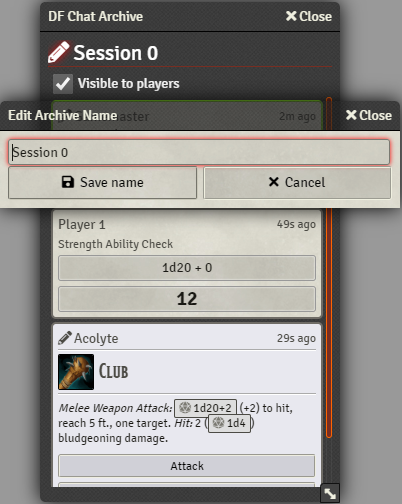
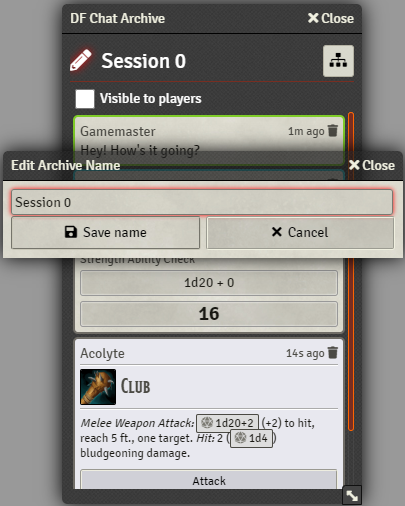
chat-enhance: Chat Archive merging
resolve #59

diff --git a/df-chat-enhance/src/archive/DFChatArchiveViewer.ts b/df-chat-enhance/src/archive/DFChatArchiveViewer.ts
@@ -68,6 +68,46 @@ export default class DFChatArchiveViewer extends Application {
 						dialog.render(true);
 					}, 1);
 				});
+				html.find('#merge').on('click', async () => {
+					if(DFChatArchive.getLogs().length == 1) {
+						ui.notifications.info(game.i18n.localize('DF_CHAT_ARCHIVE.ArchiveViewer_Merge_OnlyOneArchive'));
+						return;
+					}
+					const dialog: Dialog = new Dialog({
+						title: game.i18n.localize('DF_CHAT_ARCHIVE.ArchiveViewer_Merge_Title'),
+						default: 'merge',
+						content: await renderTemplate('modules/df-chat-enhance/templates/archive-merge.hbs', {
+							name: this.archive.name,
+							archives: DFChatArchive.getLogs().filter(x => x.id != this.archive.id)
+						}),
+						buttons: {
+							cancel: {
+								icon: '<i class="fas fa-times"></i>',
+								label: game.i18n.localize('DF_CHAT_ARCHIVE.ArchiveViewer_Merge_Cancel'),
+								callback: async () => await dialog.close()
+							},
+							merge: {
+								icon: '<i class="fas fa-sitemap"></i>',
+								label: game.i18n.localize('DF_CHAT_ARCHIVE.ArchiveViewer_Merge_Merge'),
+								callback: async (html) => {
+									const val = $(html).find('#archive').val() as string;
+									if (isNaN(parseInt(val))) return;
+									const id = parseInt(val);
+									const source = DFChatArchive.getLogs().find(x => x.id == id);
+									this.archive.chats = (this.archive.chats as ChatMessage.Data[])
+										.concat(source.chats as ChatMessage.Data[])
+										.sort((a, b) => a.timestamp - b.timestamp);
+									DFChatArchive.updateChatArchive(this.archive);
+									this.render(false);
+									if (($(html).find('#delete')[0] as HTMLInputElement).checked) {
+										DFChatArchive.deleteChatArchive(id);
+									}
+								}
+							}
+						}
+					});
+					await dialog.render(true);
+				});
 
 				const log = html.find('#df-chat-log');
 				const messageHtml = [];
@@ -93,7 +133,7 @@ export default class DFChatArchiveViewer extends Application {
 									await DFChatArchive.updateChatArchive(this.archive);
 									$(messageHtml).hide(1000, () => messageHtml.remove());
 								}
-							})
+							});
 						});
 						messageHtml.push(html);
 					} catch (err) {

diff --git a/df-chat-enhance/src/archive/DFChatArchive.ts b/df-chat-enhance/src/archive/DFChatArchive.ts
@@ -38,9 +38,9 @@ export class DFChatArchive {
 		this._logs = JSON.parse(game.settings.get(CONFIG.MOD_NAME, DFChatArchive.PREF_LOGS));
 	}
 
-	static getLogs() { return this._logs; }
-	static getArchive(id: number) { return this._logs.find(x => x.id == id); }
-	static exists(id: number) { return !!this._logs.find(x => x.id == id); }
+	static getLogs(): DFChatArchiveEntry[] { return this._logs; }
+	static getArchive(id: number): DFChatArchiveEntry { return this._logs.find(x => x.id == id); }
+	static exists(id: number): boolean { return !!this._logs.find(x => x.id == id); }
 
 	static async createChatArchive(name: string, chats: ChatMessage[], visible: boolean): Promise<DFChatArchiveEntry> {
 		var newId = (game.settings.get(CONFIG.MOD_NAME, DFChatArchive.PREF_CID) as number) + 1;

diff --git a/df-chat-enhance/README.md b/df-chat-enhance/README.md
@@ -6,6 +6,7 @@ Multiple improvements to the chat system feature set. Brings a new Chat Archive 
 	- [Config](#Config)
 	- [Log Command Help](#Log-Command-Help)
 	- [Log Commands](#Log-Commands)
+	  - [GM Only Log](#GM-Only-Log)
 	  - [Right-Click Add to Log](#Right-Click-Add-to-Log)
 	  - [Quote Sources](#Quote-Sources)
 - [Roll Selector Buttons](#roll-selector-buttons)
@@ -13,6 +14,9 @@ Multiple improvements to the chat system feature set. Brings a new Chat Archive 
 	- [Create Archive](#Create-Archive)
 		- [Create Chat Archive Window](#Create-Chat-Archive-Window)
 	- [Manage Chat Archives](#Manage-Chat-Archives)
+		- [Edit Archive Name](#Edit-Archive-Name)
+		- [Delete Messages](#Delete-Messages)
+		- [Archive Merging](#Archive-Merging)
 - [Edit Sent Messages](#Edit-Sent-Messages)
 	- [Edit Last Message Keyboard Shortcut](#Edit-Last-Message-Keyboard-Shortcut)
 
@@ -41,7 +45,7 @@ At any time you can simply enter `/log` into the chat to display the help dialog
 | General Event | `/log ...message`<br />`/log e ...message`<br />`/log event ...message` | Logs a simple event message to the adventure log. |
 | Quote | `/log q <source> ...message`<br />`/log quote <source> ...message`<br />`/log q "<source with spaces" ...message`<br />`/log quote "<source with spaces" ...message` | Adds an entry Quote of the "Source". |
 
-### GM Only Log
+#### GM Only Log
 
 For any of the above commands, you can use `/gmlog` instead and the event/quote will be sent to the GM Only Adventure Log instead.
 
@@ -67,8 +71,7 @@ Will output into the log
 
 > [2021-02-12 4:35PM] (Susan) Bobby McFerrin said: "Don't worry, be happy!"
 
-
-## Roll Selector Buttons
+## Roll Selector Buttons ![Roll Types](../.assets/df-chat-enhance-privacy-roll-types.png)
 
 | Players | Game Masters |
 | :-: | :-: |
@@ -101,9 +104,21 @@ The windows is fairly self explanatory, you can select all the current chat mess
 
 You can view and delete archives from the archive manager. You'll find the ![manage chat archive](../.assets/df-chat-enhance-archive-manage-button.png) button in the sidebar settings tab. You can also see which ones are visible to your players
 
-|Manage Archives|View Archive|Edit Archive Name|
-|:-:|:-:|:-:|
-|![Manage archives](../.assets/df-chat-enhance-archive-manage.png)|![View archive](../.assets/df-chat-enhance-archive-viewer.png)|![View archive](../.assets/df-chat-enhance-archive-edit.png)|
+#### Edit Archive Name
+
+GMs will see a simple Pencil icon next to the Archive's name. Clicking this will open the name editing dialog.
+
+#### Delete Messages
+
+GMs will see the typical Trash Can button on archived messages that allows them to delete them individually.
+
+#### Archive Merging
+
+When viewing a Chat Archive, GMs will see a Merge button in the top right corner. This button presents a Dialog where you can select one of your other archives which can be merged into the one currently being viewed. It also gives a checkbox that if checked will delete the other archive that is being merged into the currently viewed one.
+
+|Manage Archives|View Archive|Edit Archive Name|Archive Merge|
+|:-:|:-:|:-:|:-:|
+|![Manage archives](../.assets/df-chat-enhance-archive-manage.png)|![View archive](../.assets/df-chat-enhance-archive-viewer.png)|![Edit archive](../.assets/df-chat-enhance-archive-edit.png)|![Merge archive](../.assets/df-chat-enhance-archive-merge.png)|
 
 ## Edit Sent Messages
 

diff --git a/df-chat-enhance/CHANGELOG.md b/df-chat-enhance/CHANGELOG.md
@@ -7,10 +7,11 @@
 - Chat Archive
 	- GMs can now set the player visibility of Chat Archives. This will allow players to view chat archives the GM has allowed them to see.
 	- GMs can now delete individual messages in Chat Archives.
+	- Archive Merging! You can now merge other archives into the one currently being viewed!
 - Chat Editing
 	- You can now select the text in the "Original Message" area.
-	- NEW! Shift-Up keyboard combo to edit your last sent message. Simply press and hold Shift, then press the Up key and release. This keyboard shortcute will immediately display the edit message dialog for the most recent chat message you sent.
-- Roll Type Buttons: Adjusted colours to be more pleasing to the eye (Yes this is subjective, but what're you gunna do about it!?). Don't worry, I've also tried to make them Accessible Colours for our colour impaired friends in the community 🙂 Each colour should be visually distinct from each other.
+	- NEW! Shift-Up keyboard combo to edit your last sent message. Simply press and hold Shift, then press the Up key and release. This keyboard shortcut will immediately display the edit message dialog for the most recent chat message you sent.
+- Roll Type Buttons: Adjusted colours to be more pleasing to the eye (Yes this is subjective, but what're you gunna do about it!?). Don't worry, I've also tried to use only Accessible Colours for our colour impaired friends in the community 🙂 Each colour should be visually distinct from each other and be within the AA specifications.
 
 ## Release 1.1.2 (2021-02-19)
 - Fixed Chat Commands initialization.
@@ -46,8 +47,10 @@
 - First Alpha release with the core functionality of Chat Archive and Roll Selector Buttons.
 - Missing: French Translations
 
-## PreRelease 0.0.2
+## Pre-Release 0.0.2
+
 - Chat roll privacy selector as buttons feature.
 
-## PreRelease 0.0.1
+## Pre-Release 0.0.1
+
 - Core Chat Archive functionality and features.
